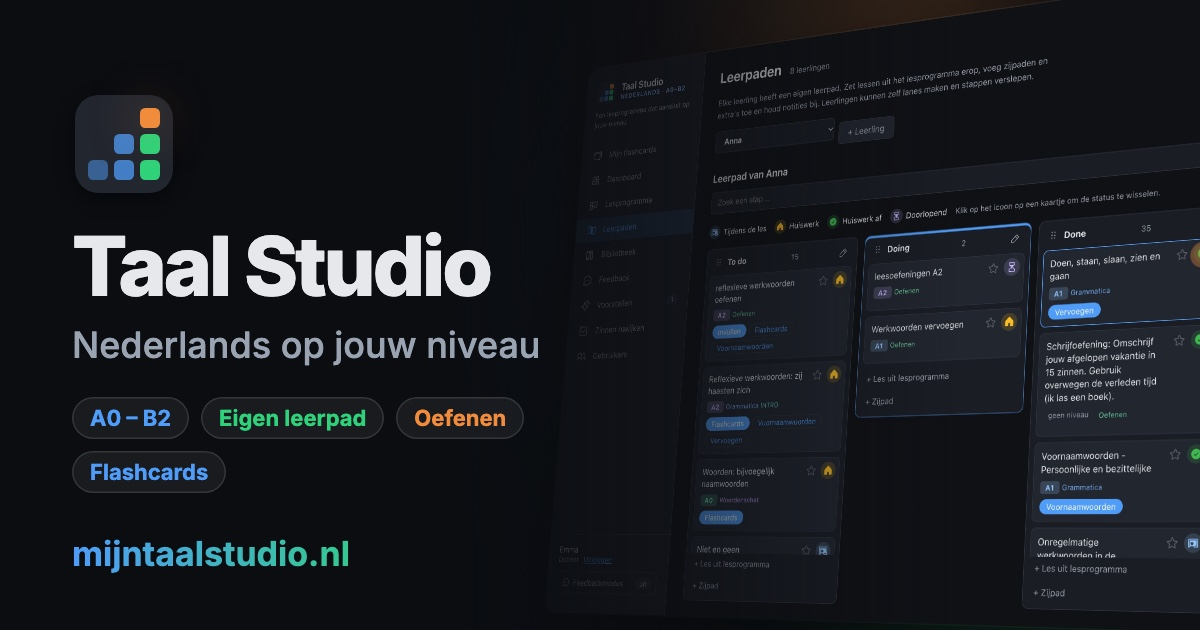
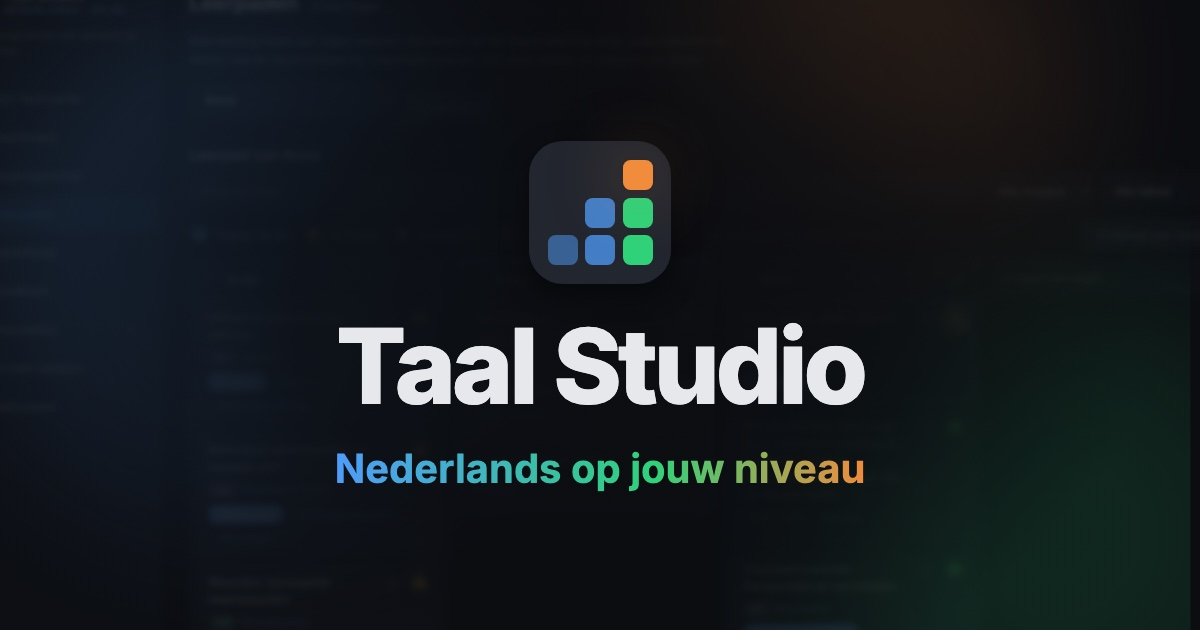
feat: calmer, centred link preview that survives WhatsApp's square crop

diff --git a/demo/remotion/Og.jsx b/demo/remotion/Og.jsx
@@ -1,81 +1,58 @@
-// The link preview (Open Graph image, 1200×630) for WhatsApp, LinkedIn & co:
-// logo, name and promise on the left, the app on a tilted screen on the right.
+// The link preview (Open Graph image, 1200×630) for WhatsApp, LinkedIn & co.
+// Kept calm and centred: WhatsApp shows a small, almost square cut from the
+// middle, so everything that matters sits in the centre and reads small.
 import { AbsoluteFill, Img, staticFile } from "remotion";
 import { Backdrop, C, LogoMark, fontFamily, frameAt } from "./Demo";
 import { MANIFESTS } from "./manifests";
 
-/** A frame of the board recording, after the card turned green. */
+/** A frame of the board recording, as a faint backdrop. */
 function boardFrame(lang) {
   const m = MANIFESTS[lang]?.board;
   return m ? staticFile(`${lang}/board/${frameAt(m.frames, 7.2)}`) : null;
 }
 
-const PILLS = { nl: ["A0 – B2", "Eigen leerpad", "Oefenen", "Flashcards"], en: ["A0 – B2", "Own learning path", "Practice", "Flashcards"] };
 const LINE = { nl: "Nederlands op jouw niveau", en: "Dutch at your level" };
 
 export function Og({ lang = "nl" }) {
   const src = boardFrame(lang);
   return (
     <AbsoluteFill style={{ background: C.bg, fontFamily, overflow: "hidden" }}>
-      <div style={{ position: "absolute", inset: 0, transform: "scale(0.62)", transformOrigin: "0 0", width: 1920, height: 1200 }}>
+      {src && (
+        <Img
+          src={src}
+          style={{
+            position: "absolute",
+            left: -60,
+            top: -40,
+            width: 1320,
+            height: 825,
+            objectFit: "cover",
+            opacity: 0.22,
+            filter: "blur(3px) saturate(0.8)",
+          }}
+        />
+      )}
+      <div style={{ position: "absolute", inset: 0, transform: "scale(0.62)", transformOrigin: "0 0", width: 1920, height: 1200, opacity: 0.9 }}>
         <Backdrop />
       </div>
+      {/* Darker in the middle, so the name stands out. */}
+      <AbsoluteFill style={{ background: `radial-gradient(ellipse 46% 62% at 50% 50%, ${C.bg}f2 0%, ${C.bg}cc 55%, ${C.bg}55 100%)` }} />
 
-      {src && (
-        <div style={{ position: "absolute", left: 590, top: 70, perspective: 1800 }}>
-          <div
-            style={{
-              width: 1440,
-              height: 900,
-              transform: "scale(0.6) rotateY(-16deg) rotateX(5deg)",
-              transformOrigin: "0 0",
-              borderRadius: 22,
-              overflow: "hidden",
-              boxShadow: "0 50px 140px rgba(0,0,0,0.7), 0 0 0 2px rgba(255,255,255,0.08)",
-            }}
-          >
-            <Img src={src} style={{ width: 1440, height: 900, display: "block" }} />
-          </div>
-        </div>
-      )}
-      {/* Fade the screen into the background on the left, so the text reads well. */}
-      <div style={{ position: "absolute", inset: 0, background: `linear-gradient(90deg, ${C.bg} 38%, rgba(11,13,17,0.55) 60%, rgba(11,13,17,0) 80%)` }} />
-
-      <div style={{ position: "absolute", left: 72, top: 92, width: 560 }}>
-        <LogoMark size={104} delay={-120} />
-        <div style={{ marginTop: 30, fontSize: 82, fontWeight: 800, letterSpacing: -3, color: C.text, lineHeight: 1 }}>Taal Studio</div>
-        <div style={{ marginTop: 16, fontSize: 36, fontWeight: 500, color: C.dim, lineHeight: 1.2 }}>{LINE[lang]}</div>
-        <div style={{ marginTop: 30, display: "flex", flexWrap: "wrap", gap: 12 }}>
-          {PILLS[lang].map((p, i) => (
-            <span
-              key={p}
-              style={{
-                padding: "8px 18px",
-                borderRadius: 999,
-                fontSize: 22,
-                fontWeight: 700,
-                color: [C.blue, C.green, C.orange, C.blue][i],
-                background: "rgba(255,255,255,0.06)",
-                boxShadow: "inset 0 0 0 1.5px rgba(255,255,255,0.12)",
-              }}
-            >
-              {p}
-            </span>
-          ))}
-        </div>
+      <AbsoluteFill style={{ alignItems: "center", justifyContent: "center", flexDirection: "column", gap: 26 }}>
+        <LogoMark size={150} delay={-120} />
+        <div style={{ fontSize: 104, fontWeight: 800, letterSpacing: -4, color: C.text, lineHeight: 1 }}>Taal Studio</div>
         <div
           style={{
-            marginTop: 40,
-            fontSize: 34,
+            fontSize: 40,
             fontWeight: 700,
             color: "transparent",
             backgroundImage: `linear-gradient(90deg, ${C.blue}, ${C.green} 60%, ${C.orange})`,
             WebkitBackgroundClip: "text",
           }}
         >
-          mijntaalstudio.nl
+          {LINE[lang]}
         </div>
-      </div>
+      </AbsoluteFill>
     </AbsoluteFill>
   );
 }

diff --git a/index.html b/index.html
@@ -31,7 +31,7 @@
       property="og:description"
       content="Je eigen leerpad, heldere uitleg, oefeningen en flashcards. Nederlands leren van A0 tot B2, met NT2-lessen in Rotterdam en online."
     />
-    <meta property="og:image" content="https://mijntaalstudio.nl/og-image.jpg?v=1" />
+    <meta property="og:image" content="https://mijntaalstudio.nl/og-image.jpg?v=2" />
     <meta property="og:image:type" content="image/jpeg" />
     <meta property="og:image:width" content="1200" />
     <meta property="og:image:height" content="630" />
@@ -39,7 +39,7 @@
     <meta name="twitter:card" content="summary_large_image" />
     <meta name="twitter:title" content="Taal Studio · Nederlands op jouw niveau" />
     <meta name="twitter:description" content="Je eigen leerpad, heldere uitleg, oefeningen en flashcards. Nederlands leren van A0 tot B2." />
-    <meta name="twitter:image" content="https://mijntaalstudio.nl/og-image.jpg?v=1" />
+    <meta name="twitter:image" content="https://mijntaalstudio.nl/og-image.jpg?v=2" />
   </head>
   <body>
     <div id="root"></div>
